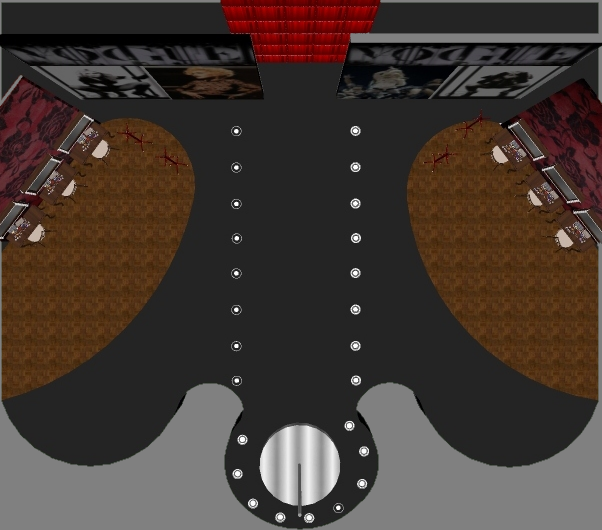
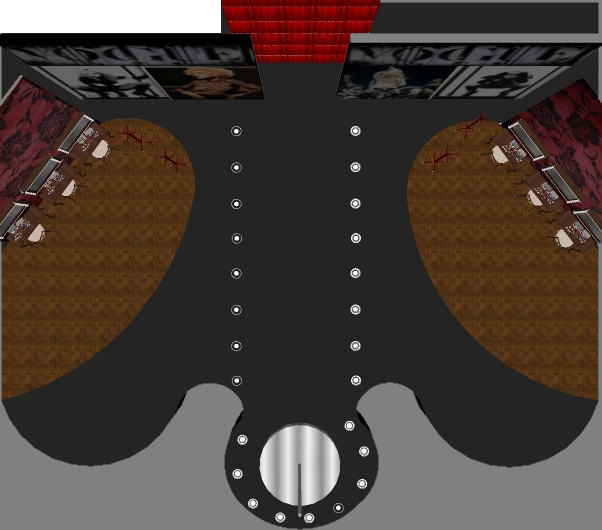
uwu

Changed region(s): [[0.0, 0.0, 0.3887, 0.0604]]

diff --git a/src/proceso/Tablero.java b/src/proceso/Tablero.java
@@ -14,6 +14,7 @@ import java.awt.Rectangle;
 import java.awt.Toolkit;
 import java.util.ArrayList;
 import javax.swing.ImageIcon;
+import javax.swing.JLabel;
 import javax.swing.JPanel;
 
 public class Tablero extends JPanel implements Runnable{
@@ -22,14 +23,18 @@ public class Tablero extends JPanel implements Runnable{
     private Thread hilo;
     public Door doors[];
     public boolean full=false;
-    public int delta=2;
-    public int max=10;
-    
+    public int delta=20;
+    public int max=501;
+    JLabel label1;
     
     private  int x,y;
     
     public Tablero(int width, int height){
-        
+        label1 = new JLabel();
+        setLocation(100, 100);
+        label1.setText("0");
+        label1.setBounds(0, 0, 200, 50);
+        add(label1);
         setBackground(Color.WHITE);
         setDoubleBuffered(true);
         background = new ImageIcon(this.getClass().getResource("/img/cropedMadona.png")).getImage();
@@ -58,6 +63,7 @@ public class Tablero extends JPanel implements Runnable{
             if(f!=null)
             f.draw(g2);
         }
+        label1.paint(g2);
         Toolkit.getDefaultToolkit().sync();
         g.dispose();
     }
@@ -74,6 +80,7 @@ public class Tablero extends JPanel implements Runnable{
                 d.tick();
         }
         clean();
+        label1.setText("num: "+Integer.toString(lastFolk2()));
     }
     
     @Override
@@ -104,7 +111,7 @@ public class Tablero extends JPanel implements Runnable{
                 break;
             }
         }
-        return i+1;
+        return i;
     }
     public void add(int x, int y){
         int l=lastFolk();
@@ -113,15 +120,15 @@ public class Tablero extends JPanel implements Runnable{
         }
     }
     public boolean full(int add){
-        return lastFolk()+add>=folks.length;
+        return lastFolk()+add>folks.length;
     }
     public void clean(){
         for(int i=0;i<folks.length;i++){
             
             if(folks[i]==null&&lastFolk()!=lastFolk2()){
+                folks[i]=new Folk(0,0,this,0);
                 folks[i]=folks[lastFolk2()];
-                folks[i].id=i;
-                folks[lastFolk2()]=null;
+                folks[lastFolk2()].kill();
                 System.out.println("i"+i);
                 folks[i].id=i;
             }

diff --git a/src/proceso/Folk.java b/src/proceso/Folk.java
@@ -26,12 +26,26 @@ public class Folk {
         this.y=y;
         this.id=id;
         xDesp=(int)(Math.random()*10)-5;
+        while(xDesp==0)
+            xDesp=(int)(Math.random()*10)-5;
         yDesp+=(int)(Math.random()*10)-5;
+        while(yDesp==0)
+            yDesp=(int)(Math.random()*10)-5;
         this.tablero=tablero;
         sprite = new ImageIcon(this.getClass().getResource("/img/stickPixel.png")).getImage();
         width=sprite.getWidth(null);
         height=sprite.getHeight(null);
         hitbox=new Rectangle(x,y,width,height);
+    }
+    public void set(Folk f){
+        this.x=f.x;
+        this.y=f.y;
+        this.hitbox=f.hitbox;
+        this.id=f.id;
+        this.inDoor=f.inDoor;
+        this.tablero=f.tablero;
+        this.xDesp=f.xDesp;
+        this.yDesp=f.yDesp;
     }
 
     public int getX() {
